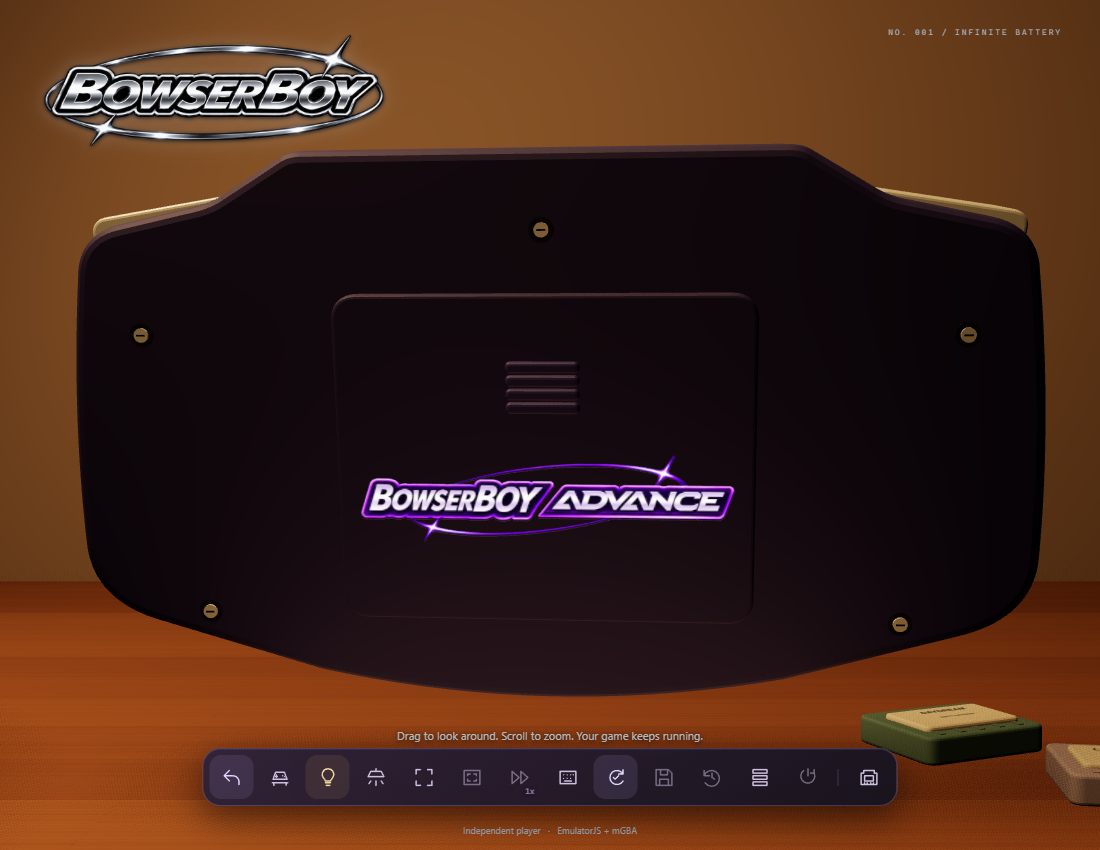
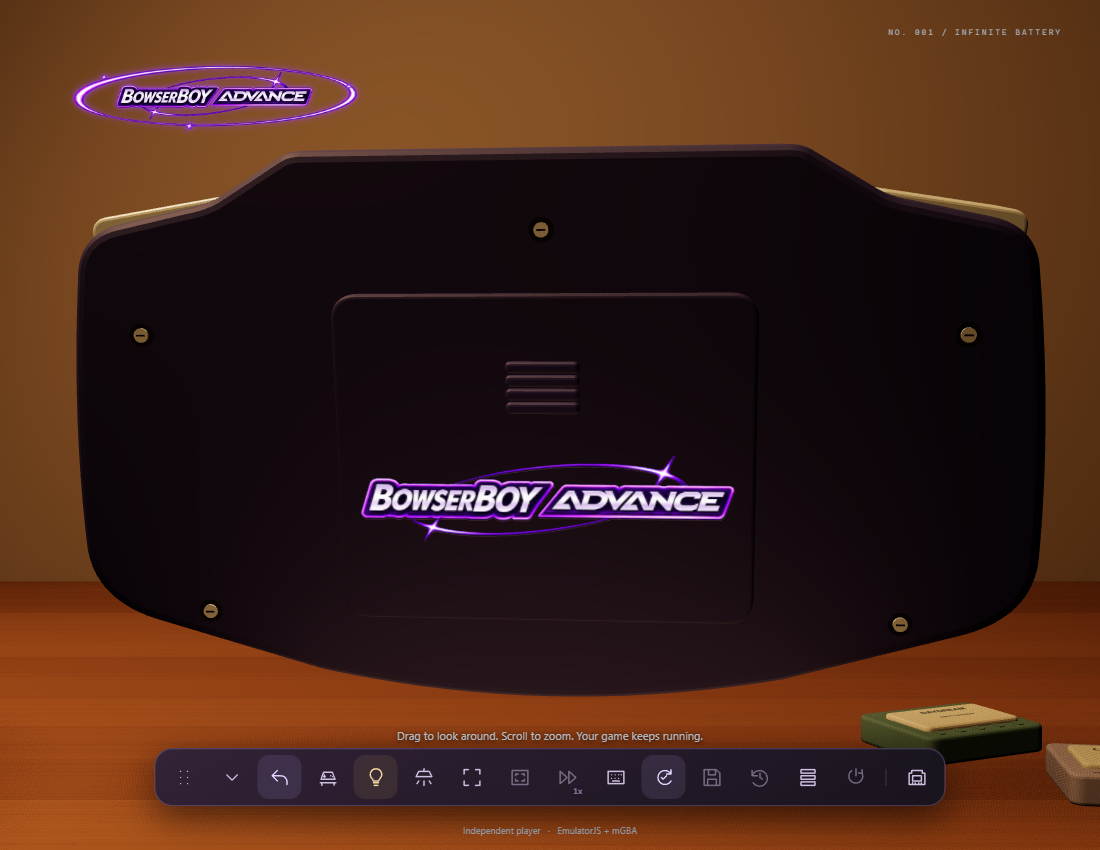
Show movable tools and animated console inspection in the README
Film real no-ROM interactions, refresh affected shared figures, and record exact capture provenance and local qualification. Monitor the normal deployment as explicitly requested.

Copilot-Session: 8e7d69ac-78f7-4310-8b8d-14bf8681a509

diff --git a/README.md b/README.md
@@ -21,23 +21,23 @@
 
 *Your Game Boy Advance, on the BowserBOY tabletop. [Play BowserBOYADVANCED](https://zanark.github.io/BowserBoyAdvance/).*
 
-*Animated console banner above; fresh current-build recordings and UI captures below. [Media origins](docs/MEDIA.md#complete-readme-refresh-2026-11-05).*
+*Animated console banner above; current-build recordings and UI captures below. [Media origins](docs/MEDIA.md#movable-dock-and-inspection-branding-2026-11-06).*
 
 ### One table. More to come.
 
-![Current BowserBOY table with the updated chrome website logo, paper lantern and purple GBA console](docs/images/readme-table.png?v=readme-refresh-20261105)
+![Current BowserBOY table with chrome website branding and its movable tools dock](docs/images/readme-table.png?v=dock-inspection-20261106)
 
 *The BowserBOY tabletop, featuring BowserBOYADVANCED.*
 
 ### Pick it up. Turn it over.
 
-![Pick up BowserBOY ADVANCED, inspect its current engraved back, and put it down](docs/images/pickup-inspect.gif?v=readme-refresh-20261105)
+![Pick up the handheld, inspect it with the animated purple console logo, and return to the chrome-branded table](docs/images/pickup-inspect.gif?v=dock-inspection-20261106)
 
-*Soft engraved A/B letters. Raised Zanark lettering. Small, borderless metallic-chroma bezel lettering.*
+*Soft engraved A/B letters. Metallic-chroma bezel. Purple console branding with orbiting stars while you inspect.*
 
 ### Purple belongs to the console.
 
-![Current rear inspection with the larger, deeper purple console engraving and separate chrome website header](docs/images/readme-back.png?v=readme-refresh-20261105)
+![Rear inspection with deeper purple console engraving and its animated purple inspection header](docs/images/readme-back.png?v=dock-inspection-20261106)
 
 *Purple console identity. Larger lettering. Deeper engraving.*
 
@@ -67,7 +67,7 @@
 
 ### Power where it belongs.
 
-![The current handheld tilted through Inspect controls to reveal its ribbed underside power slider](docs/images/readme-underside.png?v=readme-refresh-20261105)
+![The handheld tilted through Inspect controls to reveal its ribbed underside power slider](docs/images/readme-underside.png?v=dock-inspection-20261106)
 
 *Underside slider. Clear front face. Real power-off and cold boot.*
 
@@ -105,9 +105,15 @@
 
 ### Everything within reach.
 
-![Current purple icon dock with distinct actions and separate desk and LCD fullscreen controls](docs/images/readme-dock.png?v=readme-refresh-20261105)
+![Purple icon dock with its drag grip, collapse arrow and separate desk and LCD fullscreen controls](docs/images/readme-dock.png?v=dock-inspection-20261106)
 
 *Desk or LCD fullscreen. 1x-4x speed. Sound, lighting and settings within reach.*
+
+### Make a little room.
+
+![Drag the tools dock, collapse it into a small movable pill, move it again, expand and reset its position](docs/images/movable-dock.gif?v=dock-inspection-20261106)
+
+*Drag the grip. Collapse with the arrow. Move it where it suits you. Focus the grip and press Home to reset.*
 
 ### Keep your progress.
 

diff --git a/docs/MEDIA.md b/docs/MEDIA.md
@@ -8,6 +8,36 @@ This is the user's explicit policy for this repository, not a portfolio-wide rul
 
 ## Sources and boundaries
 
+### Movable dock and inspection branding, 2026-11-06
+
+Source `6fb18906811c2a73301badf8e666061f9304d211` is filmed locally at
+`http://127.0.0.1:5175/BowserBoyAdvance/`; receipt timestamp
+`2026-11-05T18:51:21.318Z` (November 6 locally). No ROM is loaded or executed.
+This supplements, rather than relabels, the preceding complete-refresh edition.
+
+`movable-dock.gif` shows actual pointer dragging, collapse, dragging the small
+pill elsewhere, expansion with boundary fitting, and keyboard Home reset.
+It is 71 frames/7.1 seconds/1,770,317 bytes. The replaced `pickup-inspect.gif`
+now shows the purple animated inspection header: 124 frames/12.4 seconds/
+7,045,470 bytes. Both retain 800x618, 10 fps and infinite loops; decoded
+sampled frames change and both remain below 10 MiB. First/middle/end encoded
+frames and the actual centered-settings image are reviewed.
+
+Five affected stills are refreshed: table, front, rear, underside and dock.
+Other clips/stills retain their individually documented earlier source edition.
+The approved 1080x420, 72-frame, 8,969,021-byte purple APNG is **not regenerated**:
+the static build explicitly copies its exact existing README bytes to
+`assets/inspection-logo.png`. Only Inspect shows it; table chrome and hidden
+play branding remain distinct. Reduced motion uses original static purple
+artwork. Native browser animation requires no additional scene/render loop.
+
+The existing full capture script now includes a `movable-dock` shot. This
+bounded two-clip take uses the same actual controls and unchanged `clips()`
+encoder, with its source WebM/timing receipt retained in session evidence.
+It is not supplied-game testing, new audio/performance qualification or
+human visual approval. The user explicitly requests monitored deployment for
+this release, superseding the earlier temporary no-monitoring handoff.
+
 ### Complete README refresh, 2026-11-05
 
 All five existing interaction GIFs are freshly recorded, with four new clips
@@ -56,7 +86,8 @@ node .\scripts\capture-readme.mjs <capture-output-directory>
 Omit `BBA_CAPTURE_ROM` to use only original Pixel Lab. The original WebM and
 timing/encoding receipts stay in session evidence, not the public static build.
 README URLs are versioned for the new captures. Historical source editions
-below remain history; shared `readme-*` figures now belong to this edition.
+below remain history; shared `readme-*` figures belonged to this edition at
+that milestone. Later replacements are identified above.
 Per user instruction, publication is triggered by the genuine media push
 without watching/querying pipelines or performing public qualification.
 

diff --git a/docs/VERIFICATION.md b/docs/VERIFICATION.md
@@ -7,6 +7,29 @@ The [engineering book](../book/README.md) explains the mechanisms and failure
 lessons. Its source edition and local preview media do not replace this release
 record or constitute fresh execution of historical tests.
 
+## Movable dock and inspection branding, 2026-11-06
+
+The dock has a dedicated pointer/touch grip, collapse/expand, keyboard arrows
+(Shift for larger steps), Home reset, and Escape drag cancellation ahead of the
+existing capture-phase menu handler. Expansion/resize/fullscreen changes keep
+it in bounds; actions and the skip link retain access. State is page-local.
+Phone controls remain 44px, with two rows at390px and three at320px; settled
+physical-power targets remain above the default dock.
+
+Inspect uses the unchanged approved purple 72-frame APNG with orbiting stars.
+Actual browser screenshots change across280ms; reduced-motion static-purple
+screenshots remain identical. Table chrome, hidden play branding and phone fit
+are checked. The settings logo is centered within one physical pixel, allowing
+the asymmetric drawer border. Seven affected browser cases pass across focused
+runs; the drag/reset case repeats twice after synchronizing the drawer-close
+focus lifecycle. Syntax/build/all12units pass.
+
+Actual local source `6fb1890` is filmed with no ROM loaded. Two encoded GIFs and
+five affected stills are refreshed; bounded encoded frames and the centered
+drawer are reviewed. This is not an audio/performance or human-approval claim.
+The user explicitly resumes monitoring/fixing this deployment. The normal
+source push will trigger its unchanged full gate; live qualification is pending.
+
 ## Complete README refresh, 2026-11-05
 
 Nine interaction GIFs and nine stills are refreshed from local application

diff --git a/docs/GUIDE.md b/docs/GUIDE.md
@@ -58,7 +58,7 @@ The shimmer pauses while hidden and is disabled for reduced-motion users.*
 **A little escape, on your desk.** BowserBOY currently offers one local-first
 GBA player inside an actual 3D indigo handheld, built for GitHub Pages.
 
-![Current-build BowserBOY table with updated chrome website branding and its first GBA handheld](images/readme-table.png?v=readme-refresh-20261105)
+![Current-build BowserBOY table with chrome website branding and movable tools](images/readme-table.png?v=dock-inspection-20261106)
 
 *The current-build desk: chrome BowserBOY header, first purple console and
 paper lantern. The other objects are cartridges, not additional consoles.*
@@ -119,7 +119,7 @@ into the battery-cover plastic. Its original purple color and bright lettering a
 preserved, not darkened to imply engraving; see
 [current qualification](VERIFICATION.md#deeper-rear-engraving-2026-11-05).
 
-![Current-build rear inspection with the larger, deeper engraving](images/readme-back.png?v=readme-refresh-20261105)
+![Current-build rear inspection with deeper engraving and animated console header](images/readme-back.png?v=dock-inspection-20261106)
 
 *The purple artwork belongs to this console, including its animated inspection
 header; chrome remains the table identity. The local capture includes the enlarged, deeper cutouts,

diff --git a/book/README.md b/book/README.md
@@ -15,9 +15,9 @@ soft A/B engraving, metallic-chroma bezel lettering and the larger colored
 rear engraving. [Sources](SOURCES.md) distinguishes those later qualified
 revisions from the pinned first edition; the earlier source links stay intact.
 
-![Current-build front view of BowserBOY ADVANCED with recessed A/B lettering and metallic-chroma bezel](../docs/images/readme-handheld.png?v=readme-refresh-20261105)
+![Current-build front view of BowserBOY ADVANCED with recessed A/B lettering and movable tools dock](../docs/images/readme-handheld.png?v=dock-inspection-20261106)
 
-*Figure B-01. Refreshed local console capture, application source `82834df`. This later
+*Figure B-01. Refreshed local console capture, application source `6fb1890`. This later
 figure is not a capture of the first-edition `ab912d5` source.*
 
 The central engineering problem is not writing a GBA CPU from scratch. It is

diff --git a/book/SOURCES.md b/book/SOURCES.md
@@ -76,6 +76,12 @@ sources and historical geometry figures remain unchanged. The
 [new media receipt](../docs/MEDIA.md#complete-readme-refresh-2026-11-05)
 separates local footage, authorized GIF-only game content and publication.
 
+Workstreams 69/70 subsequently refresh Figure B-01, five shared stills and
+pickup/inspection footage from local application `6fb1890`, and add an actual
+movable-dock GIF. No ROM is loaded in that take. See the
+[dock/inspection receipt](../docs/MEDIA.md#movable-dock-and-inspection-branding-2026-11-06).
+The pinned book implementation edition remains unchanged.
+
 ## Evidence is narrower than explanation
 
 Current release records live in [Verification](../docs/VERIFICATION.md);
